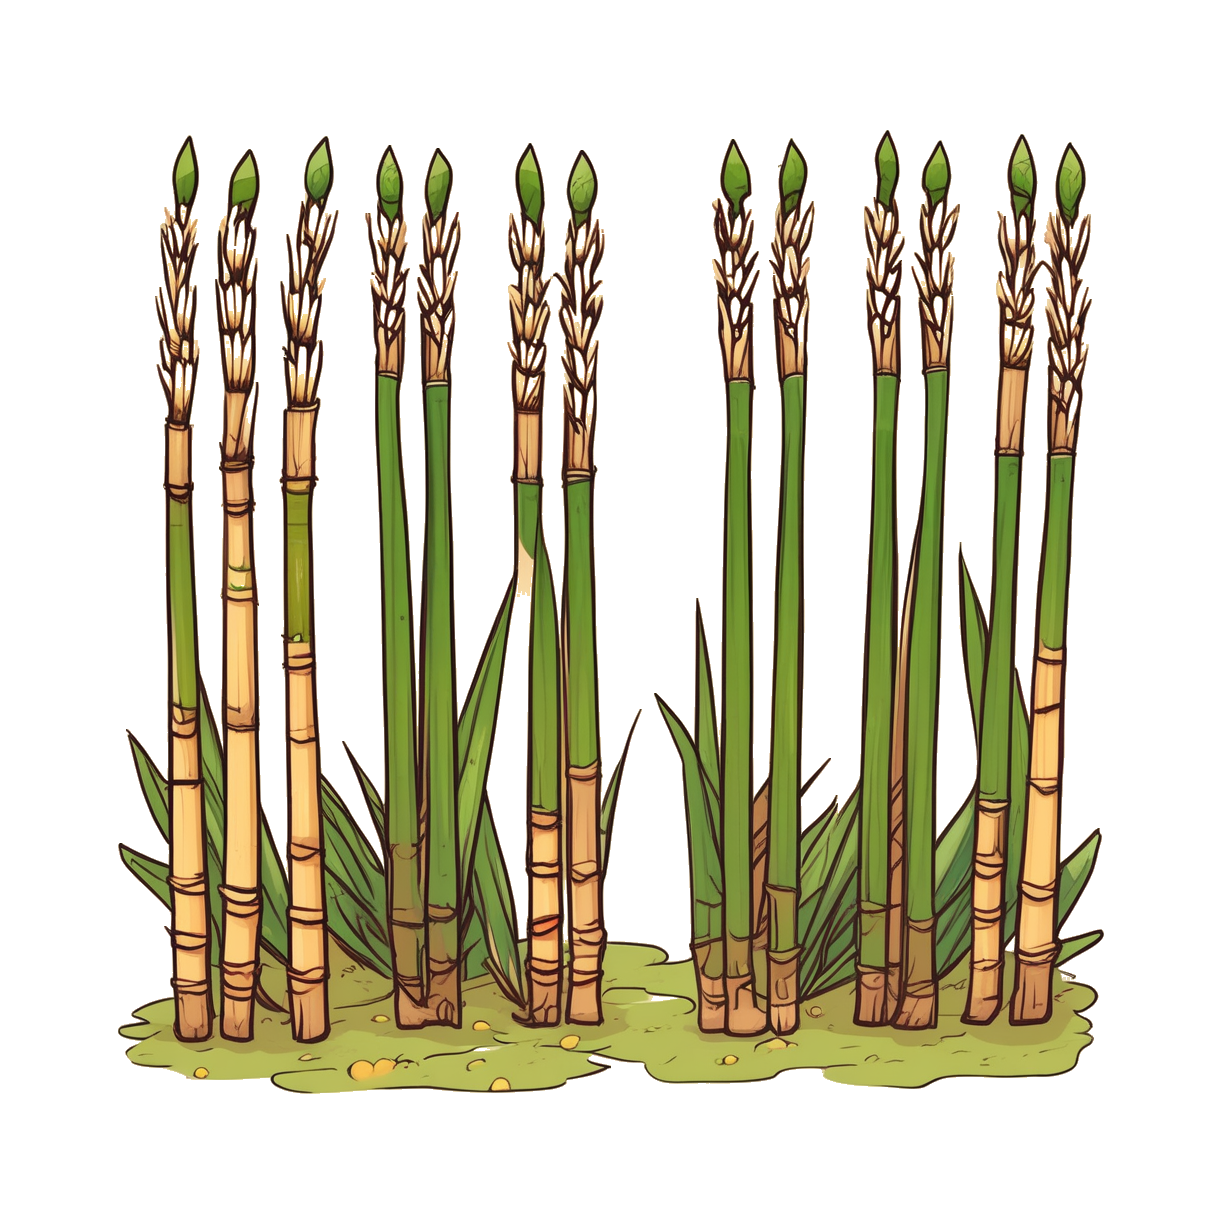
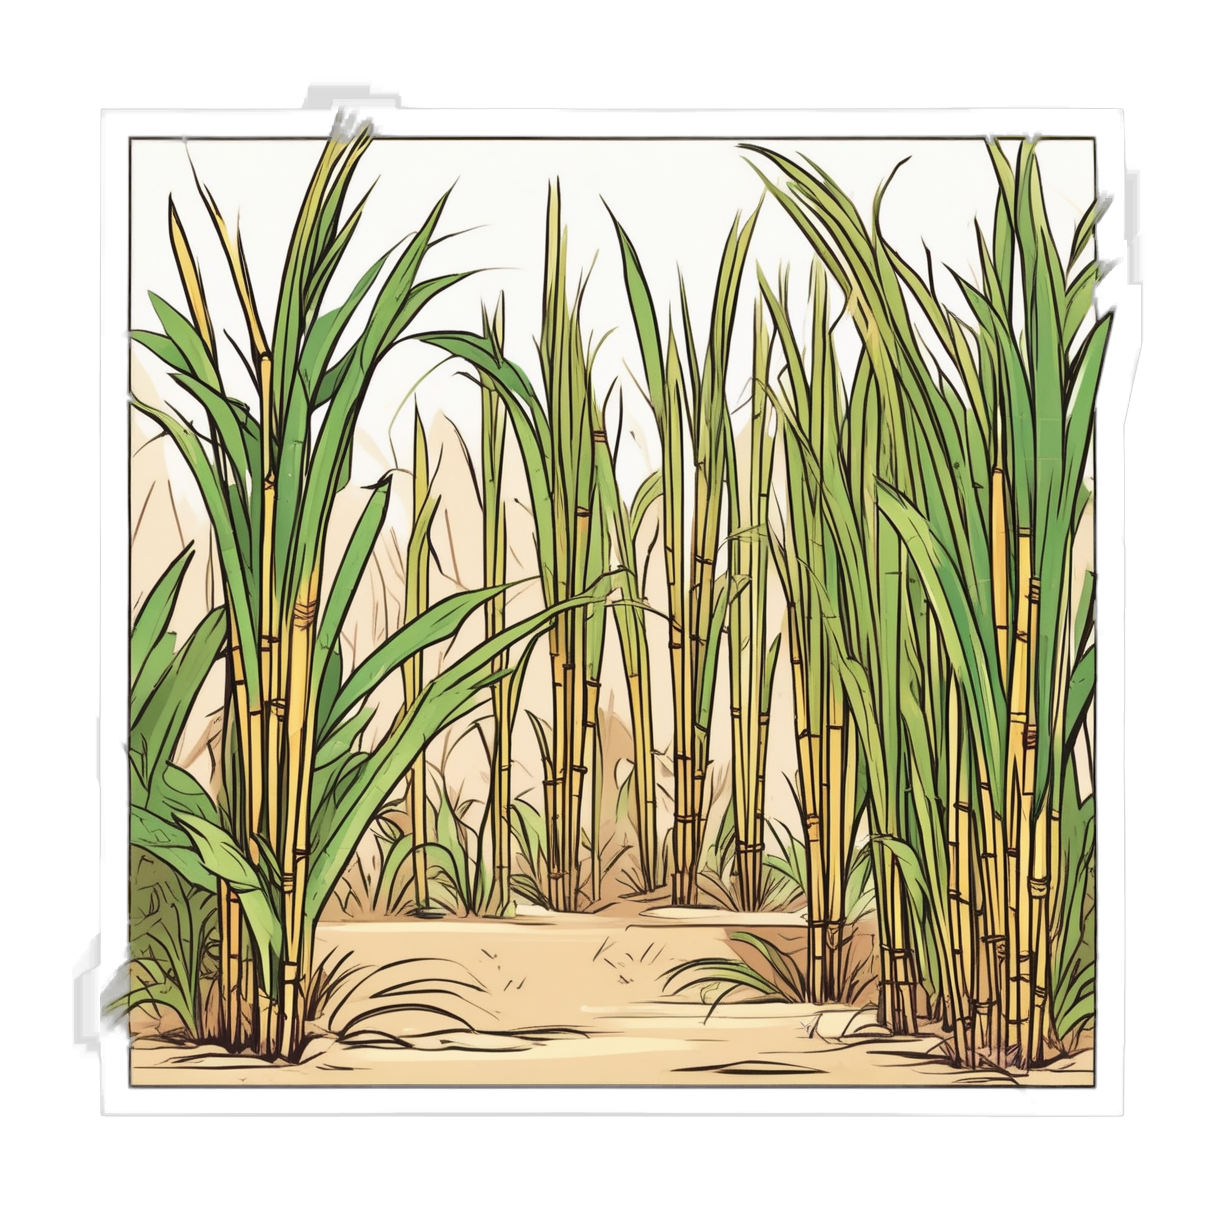
art: replace wheat_field_001 and sugarcane_001 with fixed versions (upright rows, small tile, cane bunches)

diff --git a/scripts/generate_card.py b/scripts/generate_card.py
@@ -73,7 +73,7 @@ STYLES = {
         "lora_token": "cozyStickerV1Style",
         # nature bias
         "priority_positive": "terrain tile, vegetation, plants, crops",
-        "priority_negative": "machine, device, screen, monitor, robot, metallic, console, gauge, black and white, monochrome, grayscale",
+        "priority_negative": "machine, device, screen, monitor, robot, metallic, console, gauge, black and white, monochrome, grayscale, sky, clouds, sun, horizon, landscape, frame, border, panel",
         "cutout": "rembg",
         "open_px": 2,
     },
